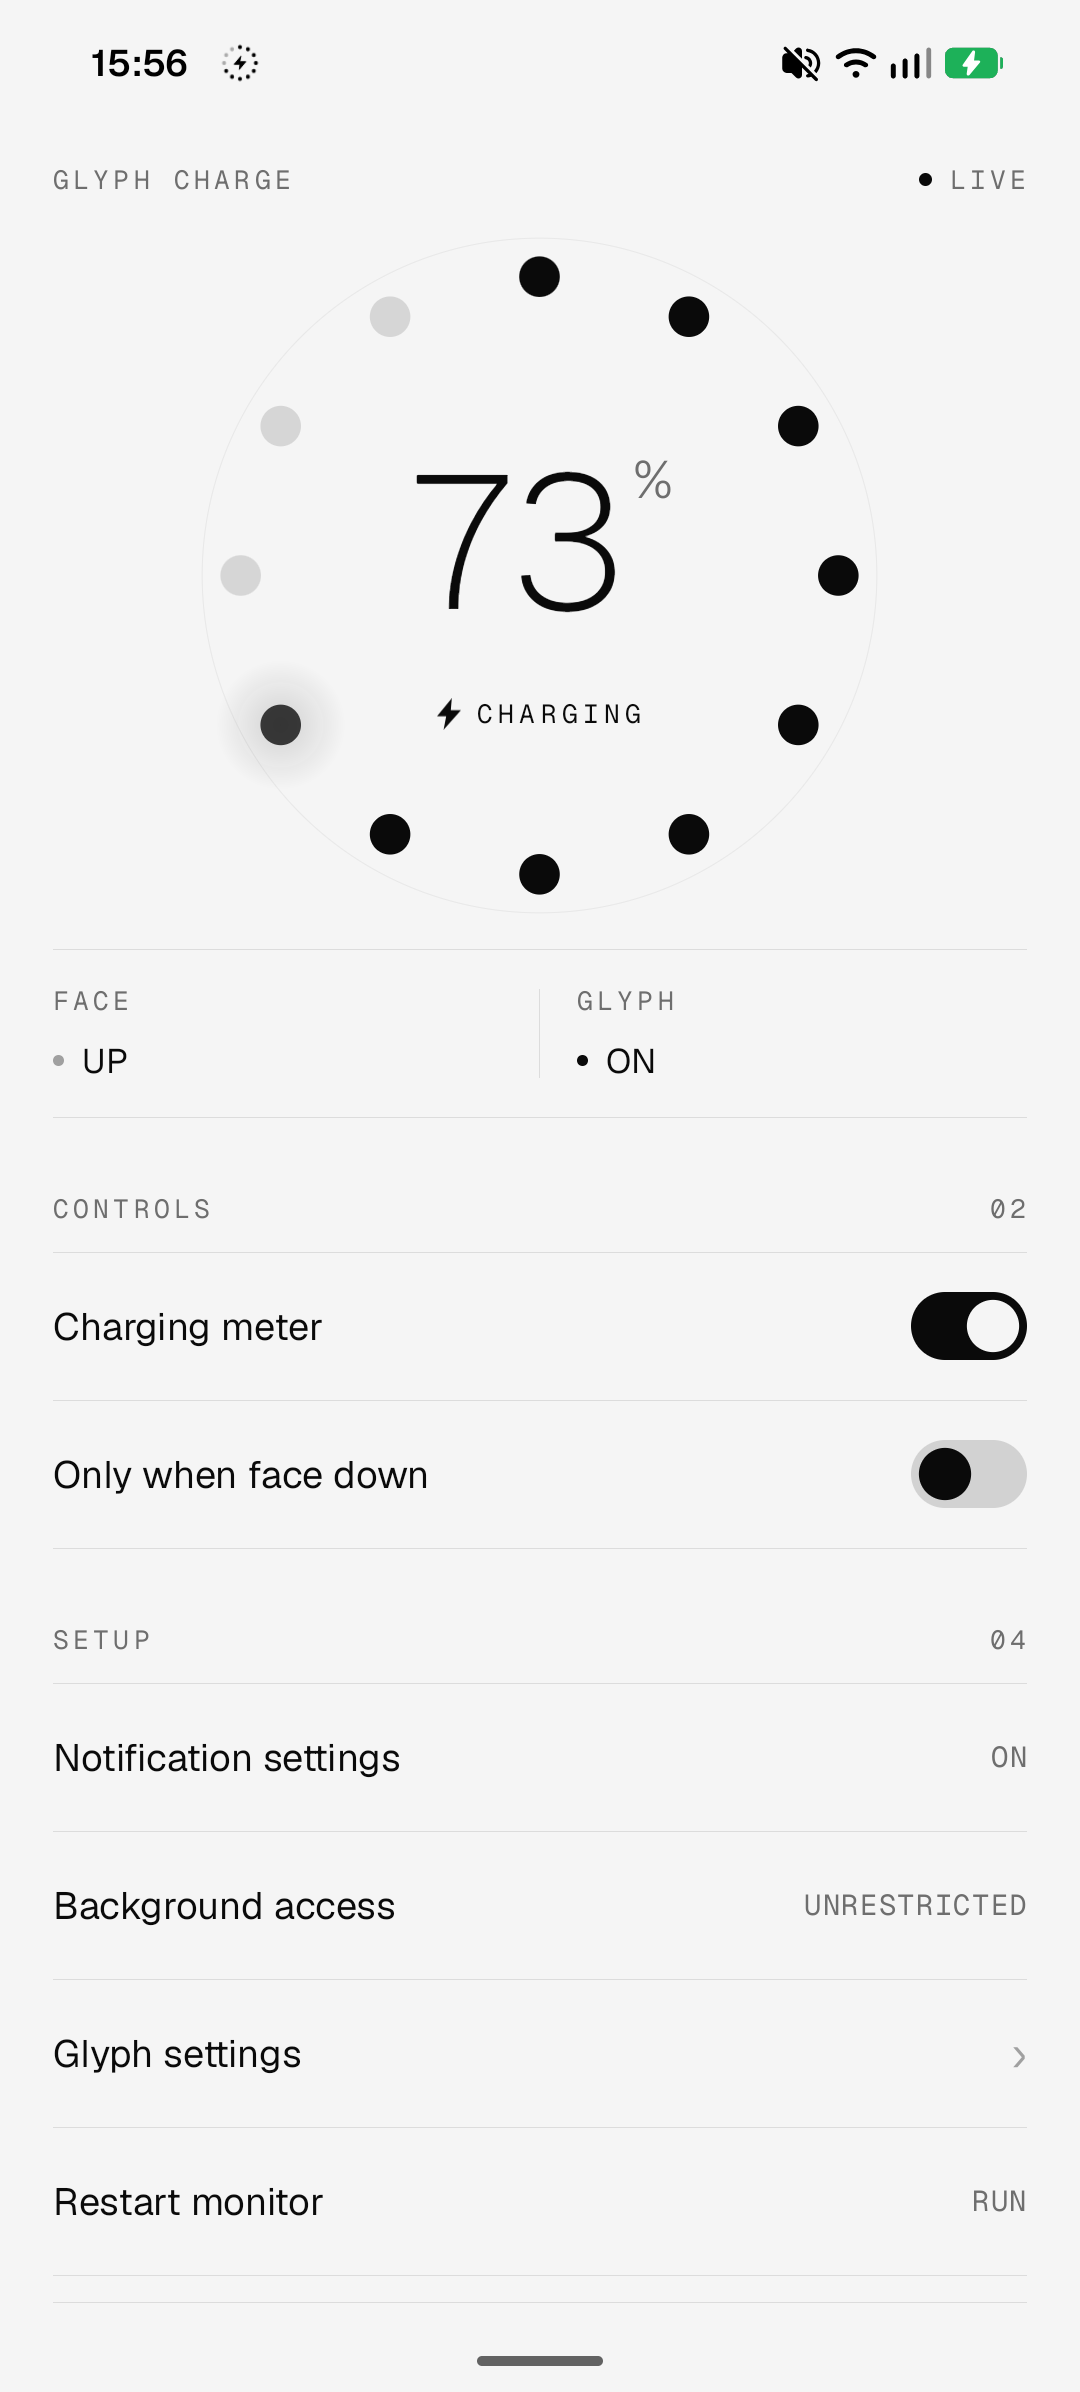
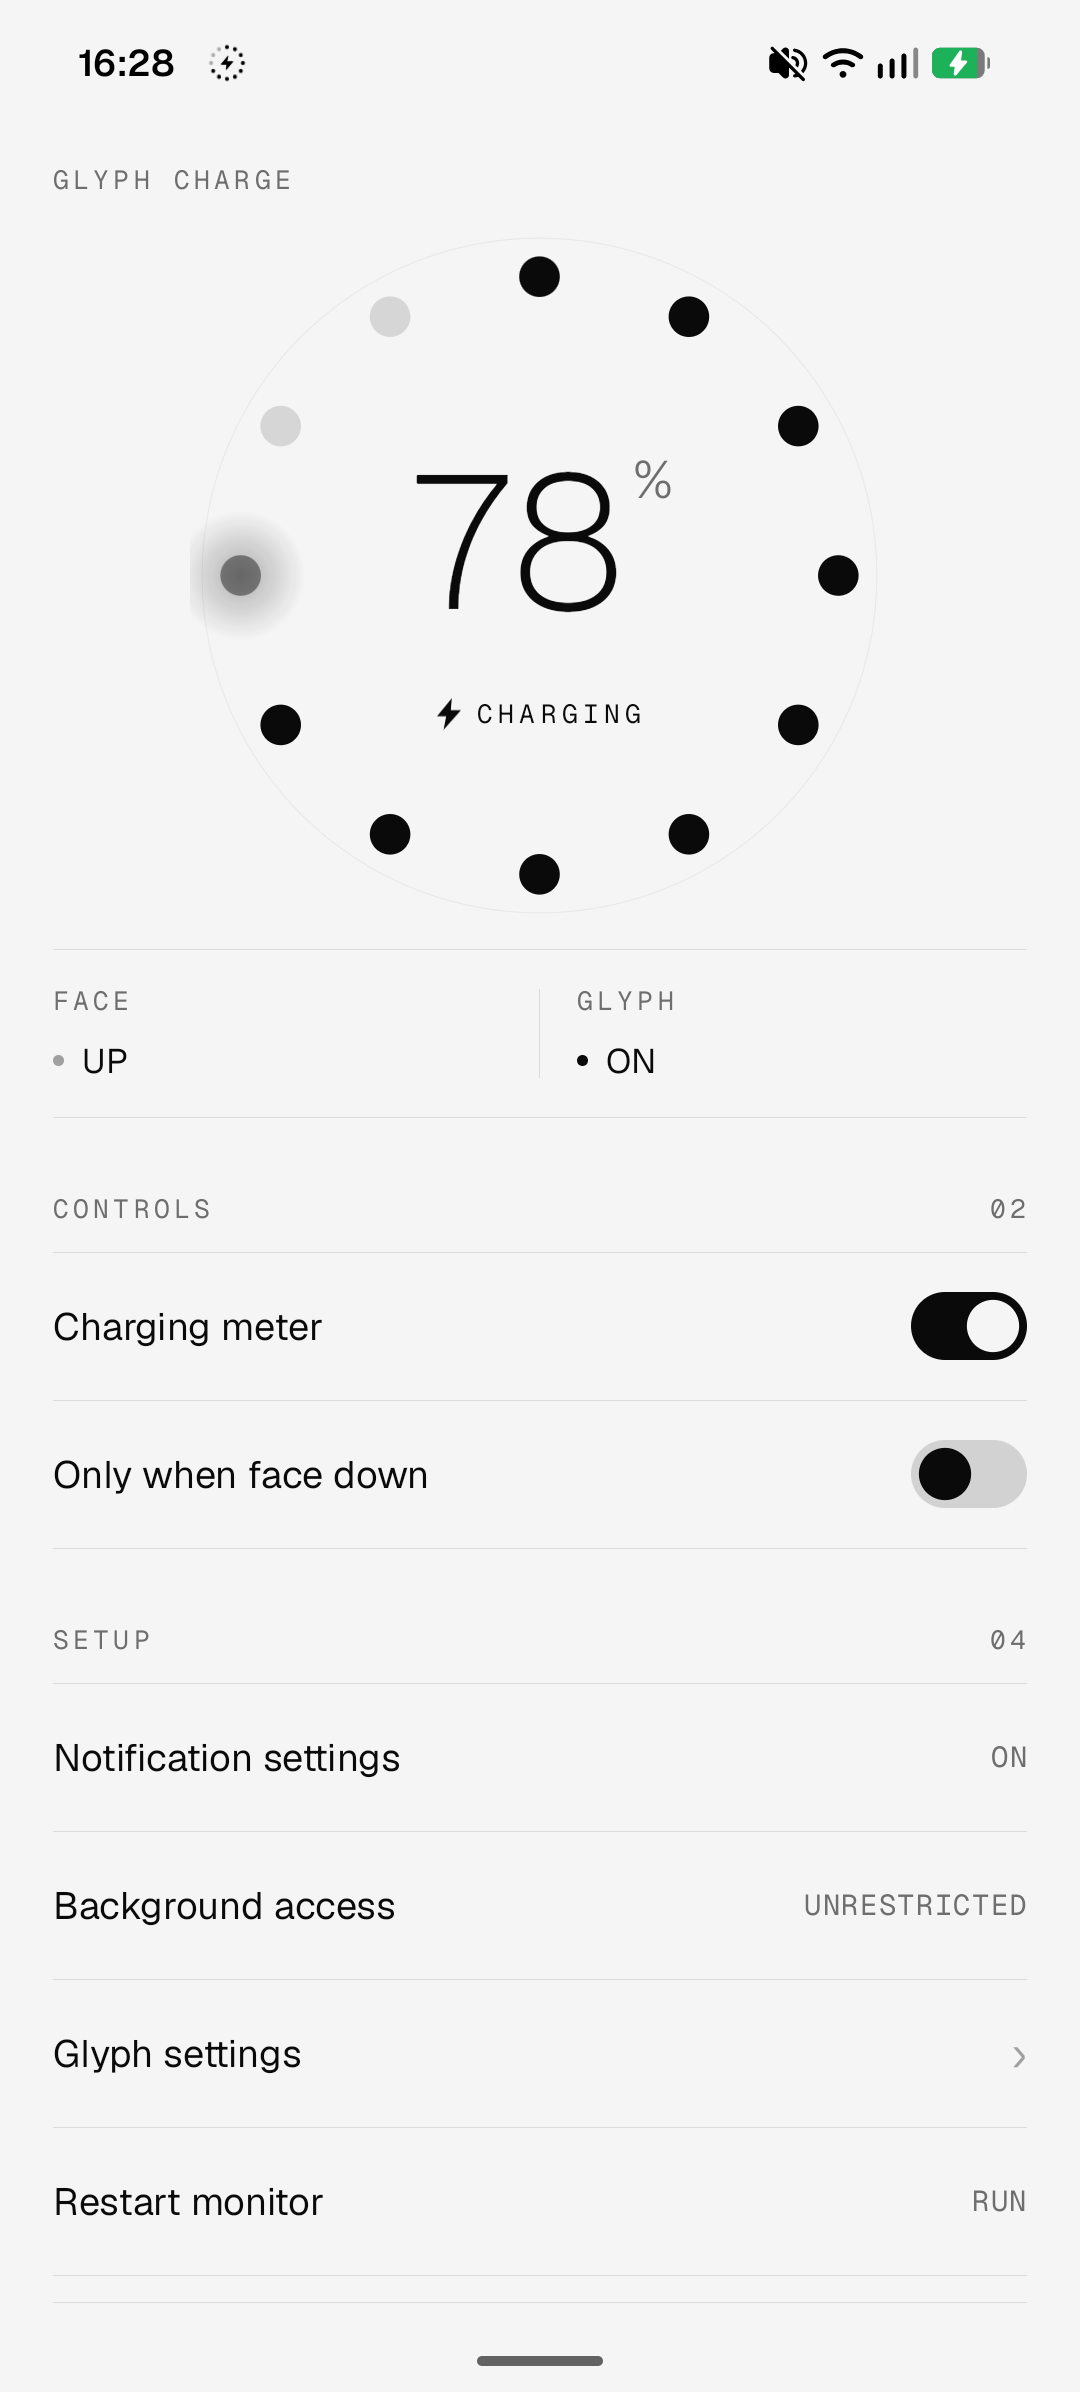
Remove the Live indicator from the header
The header now holds only the app name. The DETAILS dump still reports whether the heartbeat is live or stale. The README and its day and night screenshots follow the new header.

diff --git a/app/src/main/java/com/garen/glyphcharge/MainActivity.kt b/app/src/main/java/com/garen/glyphcharge/MainActivity.kt
@@ -50,8 +50,6 @@ class MainActivity : Activity() {
     private lateinit var gauge: GlyphGaugeView
     private lateinit var levelLabel: TextView
     private lateinit var stateLabel: TextView
-    private lateinit var liveLabel: TextView
-    private lateinit var liveDot: View
     private lateinit var faceCell: StatusCell
     private lateinit var glyphCell: StatusCell
     private lateinit var notificationValue: TextView
@@ -191,12 +189,6 @@ class MainActivity : Activity() {
             NothingUi.micro(this, "GLYPH CHARGE"),
             LinearLayout.LayoutParams(0, LinearLayout.LayoutParams.WRAP_CONTENT, 1f)
         )
-        liveDot = NothingUi.dot(this, 5)
-        row.addView(liveDot)
-        liveLabel = NothingUi.micro(this, "OFFLINE").apply {
-            setPadding(dp(7), 0, 0, 0)
-        }
-        row.addView(liveLabel)
         return row
     }
 
@@ -540,9 +532,6 @@ class MainActivity : Activity() {
                 else -> "NOT CHARGING"
             }
         )
-
-        liveLabel.setTextIfChanged(if (live) "LIVE" else "OFFLINE")
-        NothingUi.tintDot(liveDot, if (live) GlyphTokens.ink(this) else GlyphTokens.inkFaint(this))
 
         faceCell.value.setTextIfChanged(
             when {

diff --git a/README.md b/README.md
@@ -100,7 +100,7 @@ The meter is on by default. The app starts the meter when it opens.
 
 - **The Glyph stays dark.** Check the face-down position. Check notification permission. Check Glyph Progress in the Nothing Glyph app.
 - **The meter stops after a while.** Set Background access to Unrestricted. Then tap Restart monitor.
-- **The app shows OFFLINE.** Open the app. The app starts the meter again.
+- **The meter stopped.** Open the app. The app starts the meter again.
 - **The charger is connected, but the Glyph is off.** The app needs more than a connected cable. It waits for real charging signals.
 
 ## Good to know
